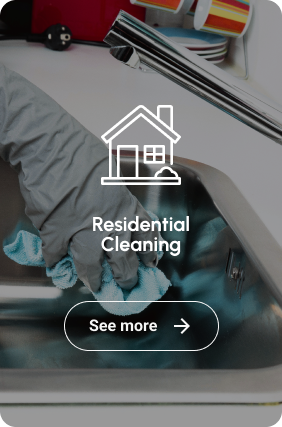
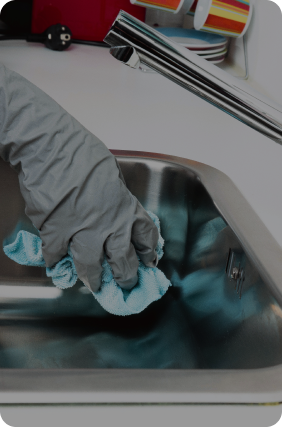
correcoes1

diff --git a/index.html b/index.html
@@ -166,29 +166,197 @@
                 </ul>
               </div>
           </div>
-          <swiper-container class="mySwiper1 reveal" pagination="true" pagination-clickable="true" space-between="10" slides-per-view="auto" loop="true" navigation="true" autoplay-delay="5000" centered-slides="true">
+          <swiper-container class="mySwiper1 reveal" pagination="true" pagination-clickable="true" space-between="0" slides-per-view="auto" loop="true" navigation="true" autoplay-delay="5000" centered-slides="true">
             <swiper-slide class="swiper1">
               <div class="servicescard">
-                <a href="./services/residentialcleaning.html">
-                <img src="./assets/services1.png" alt="" draggable="false"></a>
+                <img src="./assets/services1.png" alt="" draggable="false">
+                <div class="cardinfos">
+                  <svg xmlns="http://www.w3.org/2000/svg" width="80" height="80" viewBox="0 0 80 80" fill="none">
+                    <path d="M78.6663 71.9985H77.333C77.3064 70.2052 76.5664 68.4986 75.2764 67.2519C74.358 66.3203 73.178 65.6903 71.8931 65.442C70.1364 61.8187 65.7748 60.3054 62.1514 62.062C60.6765 62.777 59.4865 63.967 58.7715 65.442C57.4865 65.6886 56.3081 66.3203 55.3882 67.2519C54.0982 68.4986 53.3598 70.2052 53.3315 71.9985H37.3316V41.3325C37.3316 40.5958 36.7349 39.9992 35.9983 39.9992H17.3317C16.5951 39.9992 15.9984 40.5958 15.9984 41.3325V71.9985H10.6651V35.1576L39.9999 11.0598L69.3331 35.1576V58.6654C69.3331 59.4021 69.9297 59.9987 70.6664 59.9987C71.4031 59.9987 71.9997 59.4021 71.9997 58.6654V37.3476L73.2997 38.4159C73.8647 38.8809 74.698 38.8025 75.168 38.2425L79.688 32.856C80.1613 32.291 80.088 31.4493 79.523 30.976C79.5197 30.9727 79.5163 30.971 79.513 30.9677L71.9997 24.7961V2.66661C71.9997 1.19498 70.8047 0.00166663 69.3331 0H58.6665C57.1948 0 56.0015 1.19498 55.9998 2.66661V11.6548L43.2099 1.14831C41.3266 -0.333326 38.6733 -0.333326 36.7899 1.14831L0.486827 30.9694C-0.0815029 31.4377 -0.164836 32.2777 0.303495 32.8476C0.306828 32.851 0.308495 32.8543 0.311828 32.8576L4.8318 38.2442C5.3018 38.8042 6.13513 38.8825 6.70012 38.4175L8.00011 37.3492V72.0002H1.33349C0.596826 72.0002 0.000163236 72.5968 0.000163236 73.3335V78.6667C0.000163236 79.4033 0.596826 80 1.33349 80H78.6663C79.403 80 79.9997 79.4033 79.9997 78.6667V73.3335C79.9997 72.5968 79.403 72.0002 78.6663 72.0002V71.9985ZM58.6665 2.66661H69.3331V22.6062L58.6665 13.8447V2.66661ZM6.02679 35.5176L3.22014 32.1743L38.4816 3.20993C39.3716 2.50828 40.6266 2.50828 41.5166 3.20993L76.778 32.1743L73.9714 35.5176L40.8466 8.30316C40.3549 7.89817 39.6449 7.89817 39.1533 8.30316L6.02679 35.5176ZM57.2615 69.1502C57.8865 68.4769 58.7515 68.0752 59.6698 68.0336C60.2448 68.0419 60.7598 67.6819 60.9498 67.1386C61.7731 64.717 64.4031 63.4203 66.8248 64.2437C68.1864 64.707 69.2564 65.777 69.7197 67.1386C69.9031 67.6852 70.4231 68.0486 70.9997 68.0336C71.9147 68.0852 72.7764 68.4852 73.4081 69.1502C74.1897 69.8935 74.643 70.9185 74.6697 71.9968H56.0032C56.0281 70.9185 56.4832 69.8935 57.2648 69.1502H57.2615ZM18.6667 42.6641H34.6666V71.9968H18.6667V42.6641ZM77.333 77.33H2.66681V74.6634H77.333V77.33ZM43.9999 39.9975C43.2632 39.9975 42.6666 40.5942 42.6666 41.3308V57.3305C42.6666 58.0671 43.2632 58.6638 43.9999 58.6638H62.6664C63.4031 58.6638 63.9998 58.0671 63.9998 57.3305V41.3308C63.9998 40.5942 63.4031 39.9975 62.6664 39.9975H43.9999ZM61.3331 47.9973H54.6665V42.6641H61.3331V47.9973ZM51.9998 42.6641V47.9973H45.3332V42.6641H51.9998ZM45.3332 50.6639H51.9998V55.9972H45.3332V50.6639ZM54.6665 55.9972V50.6639H61.3331V55.9972H54.6665Z" fill="white"/>
+                  </svg>         
+                  <h6>Residential <br>Cleaning</h6>
+                    <button class="servicesbtn"><a href="./services/residentialcleaning.html">
+                      See more &#8594;
+                    </a></button>
+                </div>
               </div>
             </swiper-slide>
             <swiper-slide class="swiper1">
               <div class="servicescard">
-                <a href="./services/commercialcleaning.html">
-                <img src="./assets/services2.png" alt="" draggable="false"></a>
+                <img src="./assets/services2.png" alt="" draggable="false">
+                <div class="cardinfos">
+                  <svg xmlns="http://www.w3.org/2000/svg" width="80" height="80" viewBox="0 0 80 80" fill="none">
+                  <path d="M74.6665 77.3031H72.4446V6.74219C72.4446 5.99688 71.8482 5.39375 71.1112 5.39375H46.2222C45.4852 5.39375 44.8888 5.99688 44.8888 6.74219V12.5844H42.2219V6.74219C42.2219 5.99688 41.6255 5.39375 40.8885 5.39375H35.1112V1.34844C35.1112 0.603125 34.5148 0 33.7778 0C33.0407 0 32.4443 0.603125 32.4443 1.34844V5.39375H26.6671C25.93 5.39375 25.3336 5.99688 25.3336 6.74219V12.5844H21.3333C20.5962 12.5844 19.9998 13.1875 19.9998 13.9328V25.1688H8.88879C8.15177 25.1688 7.55535 25.7719 7.55535 26.5172V77.3031H5.33345C4.59642 77.3031 4 77.9062 4 78.6516C4 79.3969 4.59642 80 5.33345 80H74.6665C75.4036 80 76 79.3969 76 78.6516C76 77.9062 75.4036 77.3031 74.6665 77.3031ZM28.0005 8.09062H39.5565V12.5844H28.0005V8.09062ZM23.5567 77.3047H22.6683V75.0578C22.6683 74.3125 22.0718 73.7094 21.3348 73.7094C20.5978 73.7094 20.0014 74.3125 20.0014 75.0578V77.3047H19.1129V72.8109H23.5567V77.3047ZM32.4459 42.6984V77.3047H26.2236V71.4625C26.2236 70.7172 25.6272 70.1141 24.8902 70.1141H17.7795C17.0424 70.1141 16.446 70.7172 16.446 71.4625V77.3047H10.2238V27.8656H32.4459V42.6969V42.6984ZM33.7793 25.1703H22.6683V15.2828H44.8903V41.35H35.1128V36.8563H39.1131C39.8501 36.8563 40.4465 36.2531 40.4465 35.5078C40.4465 34.7625 39.8501 34.1594 39.1131 34.1594H35.1128V29.6656H39.1131C39.8501 29.6656 40.4465 29.0625 40.4465 28.3172C40.4465 27.5719 39.8501 26.9688 39.1131 26.9688H35.1128V26.5187C35.1128 25.7734 34.5163 25.1703 33.7793 25.1703ZM57.3348 77.3047H35.1128V44.0469H57.3348V77.3047ZM69.7793 77.3047H60.0017V40.9C60.0017 40.1547 59.4053 39.5516 58.6683 39.5516C57.9312 39.5516 57.3348 40.1547 57.3348 40.9V41.35H54.6679V40.9C54.6679 40.1547 54.0715 39.5516 53.3345 39.5516C52.5975 39.5516 52.001 40.1547 52.001 40.9V41.35H47.5572V8.09062H69.7793V77.3047Z" fill="white"/>
+                  <path d="M41 75C41.5527 75 42 74.394 42 73.6451V48.3549C42 47.606 41.5527 47 41 47C40.4473 47 40 47.606 40 48.3549V73.6451C40 74.394 40.4473 75 41 75Z" fill="white"/>
+                  <path d="M46.5 75C47.3291 75 48 74.394 48 73.6451V48.3549C48 47.606 47.3291 47 46.5 47C45.6709 47 45 47.606 45 48.3549V73.6451C45 74.394 45.6709 75 46.5 75Z" fill="white"/>
+                  <path d="M51.5 75C52.3291 75 53 74.394 53 73.6451V48.3549C53 47.606 52.3291 47 51.5 47C50.6709 47 50 47.606 50 48.3549V73.6451C50 74.394 50.6709 75 51.5 75Z" fill="white"/>
+                  <path d="M53.5 17C54.3291 17 55 16.4633 55 15.8001V14.1999C55 13.5367 54.3291 13 53.5 13C52.6709 13 52 13.5367 52 14.1999V15.8001C52 16.4633 52.6709 17 53.5 17Z" fill="white"/>
+                  <path d="M59 17C59.5527 17 60 16.4633 60 15.8001V14.1999C60 13.5367 59.5527 13 59 13C58.4473 13 58 13.5367 58 14.1999V15.8001C58 16.4633 58.4473 17 59 17Z" fill="white"/>
+                  <path d="M64.5 17C65.3291 17 66 16.4633 66 15.8001V14.1999C66 13.5367 65.3291 13 64.5 13C63.6709 13 63 13.5367 63 14.1999V15.8001C63 16.4633 63.6709 17 64.5 17Z" fill="white"/>
+                  <path d="M53.5 26C54.3291 26 55 25.4633 55 24.8001V23.1999C55 22.5367 54.3291 22 53.5 22C52.6709 22 52 22.5367 52 23.1999V24.8001C52 25.4633 52.6709 26 53.5 26Z" fill="white"/>
+                  <path d="M59 26C59.5527 26 60 25.4633 60 24.8001V23.1999C60 22.5367 59.5527 22 59 22C58.4473 22 58 22.5367 58 23.1999V24.8001C58 25.4633 58.4473 26 59 26Z" fill="white"/>
+                  <path d="M64.5 26C65.3291 26 66 25.4633 66 24.8001V23.1999C66 22.5367 65.3291 22 64.5 22C63.6709 22 63 22.5367 63 23.1999V24.8001C63 25.4633 63.6709 26 64.5 26Z" fill="white"/>
+                  <path d="M53.5 35C54.3291 35 55 34.4633 55 33.8001V32.1999C55 31.5367 54.3291 31 53.5 31C52.6709 31 52 31.5367 52 32.1999V33.8001C52 34.4633 52.6709 35 53.5 35Z" fill="white"/>
+                  <path d="M59 35C59.5527 35 60 34.4633 60 33.8001V32.1999C60 31.5367 59.5527 31 59 31C58.4473 31 58 31.5367 58 32.1999V33.8001C58 34.4633 58.4473 35 59 35Z" fill="white"/>
+                  <path d="M64.5 35C65.3291 35 66 34.4633 66 33.8001V32.1999C66 31.5367 65.3291 31 64.5 31C63.6709 31 63 31.5367 63 32.1999V33.8001C63 34.4633 63.6709 35 64.5 35Z" fill="white"/>
+                  <path d="M15.5 39C16.3291 39 17 38.3292 17 37.5002V35.4998C17 34.6708 16.3291 34 15.5 34C14.6709 34 14 34.6708 14 35.4998V37.5002C14 38.3292 14.6709 39 15.5 39Z" fill="white"/>
+                  <path d="M21 39C21.5527 39 22 38.3292 22 37.5002V35.4998C22 34.6708 21.5527 34 21 34C20.4473 34 20 34.6708 20 35.4998V37.5002C20 38.3292 20.4473 39 21 39Z" fill="white"/>
+                  <path d="M26.5 39C27.3291 39 28 38.3292 28 37.5002V35.4998C28 34.6708 27.3291 34 26.5 34C25.6709 34 25 34.6708 25 35.4998V37.5002C25 38.3292 25.6709 39 26.5 39Z" fill="white"/>
+                  <path d="M15.5 48C16.3291 48 17 47.3292 17 46.5002V44.4998C17 43.6708 16.3291 43 15.5 43C14.6709 43 14 43.6708 14 44.4998V46.5002C14 47.3292 14.6709 48 15.5 48Z" fill="white"/>
+                  <path d="M21 48C21.5527 48 22 47.3292 22 46.5002V44.4998C22 43.6708 21.5527 43 21 43C20.4473 43 20 43.6708 20 44.4998V46.5002C20 47.3292 20.4473 48 21 48Z" fill="white"/>
+                  <path d="M26.5 48C27.3291 48 28 47.3292 28 46.5002V44.4998C28 43.6708 27.3291 43 26.5 43C25.6709 43 25 43.6708 25 44.4998V46.5002C25 47.3292 25.6709 48 26.5 48Z" fill="white"/>
+                  <path d="M15.5 57C16.3291 57 17 56.3292 17 55.5002V53.4998C17 52.6708 16.3291 52 15.5 52C14.6709 52 14 52.6708 14 53.4998V55.5002C14 56.3292 14.6709 57 15.5 57Z" fill="white"/>
+                  <path d="M21 57C21.5527 57 22 56.3292 22 55.5002V53.4998C22 52.6708 21.5527 52 21 52C20.4473 52 20 52.6708 20 53.4998V55.5002C20 56.3292 20.4473 57 21 57Z" fill="white"/>
+                  <path d="M26.5 57C27.3291 57 28 56.3292 28 55.5002V53.4998C28 52.6708 27.3291 52 26.5 52C25.6709 52 25 52.6708 25 53.4998V55.5002C25 56.3292 25.6709 57 26.5 57Z" fill="white"/>
+                  <path d="M15.5 66C16.3291 66 17 65.3292 17 64.5002V62.4998C17 61.6708 16.3291 61 15.5 61C14.6709 61 14 61.6708 14 62.4998V64.5002C14 65.3292 14.6709 66 15.5 66Z" fill="white"/>
+                  <path d="M21 66C21.5527 66 22 65.3292 22 64.5002V62.4998C22 61.6708 21.5527 61 21 61C20.4473 61 20 61.6708 20 62.4998V64.5002C20 65.3292 20.4473 66 21 66Z" fill="white"/>
+                  <path d="M26.5 66C27.3291 66 28 65.3292 28 64.5002V62.4998C28 61.6708 27.3291 61 26.5 61C25.6709 61 25 61.6708 25 62.4998V64.5002C25 65.3292 25.6709 66 26.5 66Z" fill="white"/>
+                  <path d="M64.5 44C65.3291 44 66 43.4633 66 42.8001V41.1999C66 40.5367 65.3291 40 64.5 40C63.6709 40 63 40.5367 63 41.1999V42.8001C63 43.4633 63.6709 44 64.5 44Z" fill="white"/>
+                  <path d="M64.5 53C65.3291 53 66 52.3292 66 51.5002V49.4998C66 48.6708 65.3291 48 64.5 48C63.6709 48 63 48.6708 63 49.4998V51.5002C63 52.3292 63.6709 53 64.5 53Z" fill="white"/>
+                  <path d="M64.5 62C65.3291 62 66 61.3292 66 60.5002V58.4998C66 57.6708 65.3291 57 64.5 57C63.6709 57 63 57.6708 63 58.4998V60.5002C63 61.3292 63.6709 62 64.5 62Z" fill="white"/>
+                  <path d="M64.5 71C65.3291 71 66 70.3292 66 69.5002V67.4998C66 66.6708 65.3291 66 64.5 66C63.6709 66 63 66.6708 63 67.4998V69.5002C63 70.3292 63.6709 71 64.5 71Z" fill="white"/>
+                  <path d="M40 21C40 20.4473 39.4185 20 38.6999 20H28.3002C27.5815 20 27 20.4473 27 21C27 21.5527 27.5815 22 28.3002 22H38.6999C39.4185 22 40 21.5527 40 21Z" fill="white"/>
+                </svg>
+                  <h6>Commercial Cleaning/<br>Office Cleaning:</h6>
+                    <button class="servicesbtn"><a href="./services/commercialcleaning.html">
+                      See more &#8594;
+                    </a></button>
+                </div>
               </div>
             </swiper-slide>
             <swiper-slide class="swiper1">
               <div class="servicescard">
-                <a href="./services/moveinoutairbnbcleaning.html">
-                <img src="./assets/services3.png" alt="" draggable="false"></a>
+                <img src="./assets/services3.png" alt="" draggable="false">
+                <div class="cardinfos">
+                  <svg xmlns="http://www.w3.org/2000/svg" width="82" height="80" viewBox="0 0 82 80" fill="none">
+                    <g clip-path="url(#clip0_1040_260)">
+                      <path d="M15.5004 36.0004C7.35071 36.0098 0.747124 42.5702 0.736816 50.6667C0.736816 58.3817 13.8624 76.0465 14.4267 76.8C14.6801 77.1379 15.0804 77.3385 15.5047 77.3385C15.929 77.3385 16.3293 77.1388 16.5827 76.8C17.1384 76.0465 30.264 58.3817 30.264 50.6667C30.2537 42.5702 23.6501 36.0098 15.5004 35.9996V36.0004ZM15.5004 73.734C11.3397 67.939 3.42189 55.8524 3.42189 50.6675C3.42189 44.0405 8.82982 38.6679 15.5004 38.6679C22.171 38.6679 27.5789 44.0405 27.5789 50.6675C27.5789 55.8507 19.6603 67.9381 15.5004 73.734Z" fill="#F7F7F7"/>
+                      <path d="M15.5004 42.6667C11.0536 42.6667 7.44775 46.249 7.44775 50.6667C7.44775 55.0844 11.0536 58.6667 15.5004 58.6667C19.9472 58.6667 23.553 55.0844 23.553 50.6667C23.5487 46.2498 19.9463 42.671 15.5004 42.6667ZM15.5004 56C12.5353 56 10.132 53.6124 10.132 50.6667C10.132 47.721 12.5353 45.3334 15.5004 45.3334C18.4655 45.3334 20.8688 47.721 20.8688 50.6667C20.8688 53.6124 18.4655 56 15.5004 56Z" fill="#F7F7F7"/>
+                      <path d="M66.4994 0C58.3497 0.01024 51.7461 6.57067 51.7358 14.6671C51.7358 22.3821 64.8614 40.0469 65.4257 40.8004C65.6791 41.1383 66.0794 41.3389 66.5037 41.3389C66.928 41.3389 67.3283 41.1392 67.5817 40.8004C68.1374 40.0469 81.263 22.3821 81.263 14.6671C81.2527 6.57067 74.6491 0.01024 66.4994 0ZM66.4994 37.7335C62.3387 31.9403 54.4209 19.8537 54.4209 14.6671C54.4209 8.04011 59.8288 2.66752 66.4994 2.66752C73.17 2.66752 78.5779 8.04011 78.5779 14.6671C78.5779 19.8502 70.6593 31.9377 66.4994 37.7335Z" fill="#F7F7F7"/>
+                      <path d="M66.4994 6.66626C62.0526 6.66626 58.4468 10.2486 58.4468 14.6663C58.4468 19.084 62.0526 22.6663 66.4994 22.6663C70.9462 22.6663 74.552 19.084 74.552 14.6663C74.5477 10.2494 70.9453 6.67053 66.4994 6.66626ZM66.4994 19.9996C63.5343 19.9996 61.131 17.612 61.131 14.6663C61.131 11.7206 63.5343 9.33293 66.4994 9.33293C69.4645 9.33293 71.8678 11.7206 71.8678 14.6663C71.8678 17.612 69.4645 19.9996 66.4994 19.9996Z" fill="#F7F7F7"/>
+                      <path d="M49.4468 43.7333C46.6432 46.0083 45.0198 49.4165 45.0267 53.0116V62.6662C45.0164 70.7626 38.4128 77.3231 30.2631 77.3333H18.1846V80H30.2631C39.8945 79.9897 47.6997 72.2346 47.71 62.6671V53.0125C47.7117 50.2178 48.9744 47.5707 51.151 45.8001C53.3275 44.0277 56.1878 43.3194 58.9476 43.8673L66.2315 45.3077L66.7572 42.6948L59.4699 41.2467C55.9224 40.5384 52.2427 41.4515 49.446 43.735L49.4468 43.7333Z" fill="#F7F7F7"/>
+                    </g>
+                    <defs>
+                      <clipPath id="clip0_1040_260">
+                        <rect width="80.5263" height="80" fill="white" transform="translate(0.736816)"/>
+                      </clipPath>
+                    </defs>
+                  </svg>
+                  <h6>Move-in/Move-out/<br>Airbnbs Cleaning:</h6>
+                    <button class="servicesbtn"><a href="./services/moveinoutairbnbcleaning.html">
+                      See more &#8594;
+                    </a></button>
+                </div>
               </div>
             </swiper-slide>
             <swiper-slide class="swiper1">
               <div class="servicescard">
-                <a href="./services/postconstructioncleaning.html">
-                <img src="./assets/services4.png" alt="" draggable="false"></a>
+                <img src="./assets/services4.png" alt="" draggable="false">
+                <div class="cardinfos">
+                  <svg xmlns="http://www.w3.org/2000/svg" width="80" height="80" viewBox="0 0 80 80" fill="none">
+                    <path d="M79.8516 37.7141C79.8187 37.6344 79.7844 37.5609 79.7375 37.4844C79.6578 37.3516 79.5547 37.2375 79.4375 37.1312C79.3906 37.0875 79.3703 37.0281 79.3172 36.9906C79.2937 36.9734 79.2609 36.9734 79.2375 36.9578C79.2078 36.9375 79.1906 36.9078 79.1578 36.8875L71.675 32.6109C72.675 31.6484 73.3312 30.3438 73.3312 28.8703C73.3312 26.8797 72.2219 25.0875 70.4375 24.1906L58.2234 18.0844L59.6406 14.5406L60.6 14.0609C61.0969 14.3609 61.6703 14.5234 62.2672 14.5234C62.5703 14.5234 62.8797 14.4828 63.1875 14.3969L76.0344 10.7234C78.3672 10.0531 79.9969 7.89375 79.9969 5.46719C79.9969 2.45312 77.5437 0 74.5297 0H72.9969C71.7562 0 70.5437 0.426562 69.5797 1.19687L60.2328 8.67344C59.4594 9.29375 59.0797 10.1859 59.0453 11.1109L57.5828 11.8406C57.2156 12.0234 56.9297 12.3344 56.7797 12.7141L55.2297 16.5875L50.5734 14.2609C47.0172 12.4812 42.4562 13.4437 39.9203 16.4875L25.7203 33.5281L1.23906 40.0562C1.14531 40.0828 1.075 40.1391 0.989062 40.1797C0.939062 40.2031 0.879687 40.1922 0.829687 40.2234C0.8 40.2406 0.785937 40.2766 0.759375 40.2938C0.55 40.4344 0.365625 40.6031 0.239062 40.8172C0.225 40.8406 0.21875 40.8641 0.20625 40.8875C0.096875 41.0938 0.0390625 41.325 0.0265625 41.5641C0.0265625 41.6 0 41.6313 0 41.6672V65C0 65.5969 0.320312 66.15 0.840625 66.4469L24.1734 79.7797C24.4297 79.9266 24.7172 80 25 80C25.1625 80 25.3328 79.9766 25.4969 79.9234L78.8297 63.2562C79.5266 63.0391 80 62.3969 80 61.6656V38.3328C80 38.2766 79.9672 38.2297 79.9641 38.1734C79.9469 38.0141 79.9141 37.8641 79.8547 37.7141H79.8516ZM71.6687 3.8C72.0422 3.5 72.5156 3.33281 72.9984 3.33281H74.5344C75.7109 3.33281 76.6672 4.28906 76.6672 5.46562C76.6672 6.4125 76.0297 7.25625 75.1203 7.51562L63.1562 10.9359C63.1562 10.9359 63.1531 10.9266 63.1531 10.9187C63.1172 10.8422 63.05 10.7953 63.0031 10.7281L71.6656 3.79844L71.6687 3.8ZM42.4859 18.6203C43.5234 17.3797 45.0422 16.6672 46.6594 16.6672C47.4969 16.6672 48.3359 16.8672 49.0969 17.2375L53.9938 19.6844L53.6578 20.525L37.475 30.2391C36.6875 30.7125 36.4313 31.7359 36.9047 32.525C37.2188 33.0484 37.7672 33.3344 38.3344 33.3344C38.6281 33.3344 38.925 33.2578 39.1906 33.0938L55.8578 23.0938C56.1719 22.9062 56.4109 22.6234 56.5484 22.2844L56.9891 21.1844L68.9594 27.1672C69.6062 27.4937 70.0094 28.1438 70.0094 28.8797C70.0094 29.7531 69.4156 30.5094 68.5687 30.7234L67.7594 30.9266C67.7594 30.9266 67.75 30.9297 67.7469 30.9297L22.8906 42.1422L42.4906 18.6188L42.4859 18.6203ZM23.3328 75.4609L3.33125 64.0328V44.5391L23.3313 55.9656V75.4594L23.3328 75.4609ZM25.1969 53.1937L6.01719 42.2344L22.0312 37.9641L17.0547 43.9344C16.5953 44.4906 16.5406 45.2781 16.925 45.8875C17.2313 46.3812 17.7719 46.6672 18.3344 46.6672C18.4672 46.6672 18.6047 46.65 18.7406 46.6141L24.3406 45.2141L29.1438 48.0969C29.4141 48.2563 29.7109 48.3344 30 48.3344C30.5625 48.3344 31.1172 48.0484 31.4297 47.5281C31.9031 46.7375 31.65 45.7141 30.8594 45.2406L28.9094 44.0703L35.3156 42.4703L39.1422 44.7641C39.4125 44.9234 39.7094 45.0016 39.9984 45.0016C40.5625 45.0016 41.1156 44.7156 41.4281 44.1953C41.9016 43.4047 41.6484 42.3812 40.8578 41.9078L39.8875 41.3281L46.2969 39.725L49.1375 41.4313C49.4109 41.5906 49.7078 41.6687 49.9969 41.6687C50.5609 41.6687 51.1141 41.3828 51.4266 40.8625C51.8969 40.075 51.6469 39.0594 50.8672 38.5828L57.2766 36.9797L59.1391 38.0969C59.4094 38.2594 59.7062 38.3375 59.9953 38.3375C60.5594 38.3375 61.1125 38.05 61.425 37.5312C61.7281 37.025 61.7047 36.4313 61.4578 35.9375L67.9344 34.3172L74.1812 37.8875L25.1906 53.1969L25.1969 53.1937ZM76.6672 60.4406L26.6672 76.0672V56.2234L76.6672 40.6V60.4406Z" fill="#F7F7F7"/>
+                  </svg>
+                  <h6>Post <br>Construction</h6>
+                    <button class="servicesbtn"><a href="./services/postconstructioncleaning.html">
+                      See more &#8594;
+                    </a></button>
+                </div>
+              </div>
+            </swiper-slide>
+            <swiper-slide class="swiper1">
+              <div class="servicescard">
+                <img src="./assets/services1.png" alt="" draggable="false">
+                <div class="cardinfos">
+                  <svg xmlns="http://www.w3.org/2000/svg" width="80" height="80" viewBox="0 0 80 80" fill="none">
+                    <path d="M78.6663 71.9985H77.333C77.3064 70.2052 76.5664 68.4986 75.2764 67.2519C74.358 66.3203 73.178 65.6903 71.8931 65.442C70.1364 61.8187 65.7748 60.3054 62.1514 62.062C60.6765 62.777 59.4865 63.967 58.7715 65.442C57.4865 65.6886 56.3081 66.3203 55.3882 67.2519C54.0982 68.4986 53.3598 70.2052 53.3315 71.9985H37.3316V41.3325C37.3316 40.5958 36.7349 39.9992 35.9983 39.9992H17.3317C16.5951 39.9992 15.9984 40.5958 15.9984 41.3325V71.9985H10.6651V35.1576L39.9999 11.0598L69.3331 35.1576V58.6654C69.3331 59.4021 69.9297 59.9987 70.6664 59.9987C71.4031 59.9987 71.9997 59.4021 71.9997 58.6654V37.3476L73.2997 38.4159C73.8647 38.8809 74.698 38.8025 75.168 38.2425L79.688 32.856C80.1613 32.291 80.088 31.4493 79.523 30.976C79.5197 30.9727 79.5163 30.971 79.513 30.9677L71.9997 24.7961V2.66661C71.9997 1.19498 70.8047 0.00166663 69.3331 0H58.6665C57.1948 0 56.0015 1.19498 55.9998 2.66661V11.6548L43.2099 1.14831C41.3266 -0.333326 38.6733 -0.333326 36.7899 1.14831L0.486827 30.9694C-0.0815029 31.4377 -0.164836 32.2777 0.303495 32.8476C0.306828 32.851 0.308495 32.8543 0.311828 32.8576L4.8318 38.2442C5.3018 38.8042 6.13513 38.8825 6.70012 38.4175L8.00011 37.3492V72.0002H1.33349C0.596826 72.0002 0.000163236 72.5968 0.000163236 73.3335V78.6667C0.000163236 79.4033 0.596826 80 1.33349 80H78.6663C79.403 80 79.9997 79.4033 79.9997 78.6667V73.3335C79.9997 72.5968 79.403 72.0002 78.6663 72.0002V71.9985ZM58.6665 2.66661H69.3331V22.6062L58.6665 13.8447V2.66661ZM6.02679 35.5176L3.22014 32.1743L38.4816 3.20993C39.3716 2.50828 40.6266 2.50828 41.5166 3.20993L76.778 32.1743L73.9714 35.5176L40.8466 8.30316C40.3549 7.89817 39.6449 7.89817 39.1533 8.30316L6.02679 35.5176ZM57.2615 69.1502C57.8865 68.4769 58.7515 68.0752 59.6698 68.0336C60.2448 68.0419 60.7598 67.6819 60.9498 67.1386C61.7731 64.717 64.4031 63.4203 66.8248 64.2437C68.1864 64.707 69.2564 65.777 69.7197 67.1386C69.9031 67.6852 70.4231 68.0486 70.9997 68.0336C71.9147 68.0852 72.7764 68.4852 73.4081 69.1502C74.1897 69.8935 74.643 70.9185 74.6697 71.9968H56.0032C56.0281 70.9185 56.4832 69.8935 57.2648 69.1502H57.2615ZM18.6667 42.6641H34.6666V71.9968H18.6667V42.6641ZM77.333 77.33H2.66681V74.6634H77.333V77.33ZM43.9999 39.9975C43.2632 39.9975 42.6666 40.5942 42.6666 41.3308V57.3305C42.6666 58.0671 43.2632 58.6638 43.9999 58.6638H62.6664C63.4031 58.6638 63.9998 58.0671 63.9998 57.3305V41.3308C63.9998 40.5942 63.4031 39.9975 62.6664 39.9975H43.9999ZM61.3331 47.9973H54.6665V42.6641H61.3331V47.9973ZM51.9998 42.6641V47.9973H45.3332V42.6641H51.9998ZM45.3332 50.6639H51.9998V55.9972H45.3332V50.6639ZM54.6665 55.9972V50.6639H61.3331V55.9972H54.6665Z" fill="white"/>
+                  </svg>         
+                  <h6>Residential <br>Cleaning</h6>
+                    <button class="servicesbtn"><a href="./services/residentialcleaning.html">
+                      See more &#8594;
+                    </a></button>
+                </div>
+              </div>
+            </swiper-slide>
+            <swiper-slide class="swiper1">
+              <div class="servicescard">
+                <img src="./assets/services2.png" alt="" draggable="false">
+                <div class="cardinfos">
+                  <svg xmlns="http://www.w3.org/2000/svg" width="80" height="80" viewBox="0 0 80 80" fill="none">
+                  <path d="M74.6665 77.3031H72.4446V6.74219C72.4446 5.99688 71.8482 5.39375 71.1112 5.39375H46.2222C45.4852 5.39375 44.8888 5.99688 44.8888 6.74219V12.5844H42.2219V6.74219C42.2219 5.99688 41.6255 5.39375 40.8885 5.39375H35.1112V1.34844C35.1112 0.603125 34.5148 0 33.7778 0C33.0407 0 32.4443 0.603125 32.4443 1.34844V5.39375H26.6671C25.93 5.39375 25.3336 5.99688 25.3336 6.74219V12.5844H21.3333C20.5962 12.5844 19.9998 13.1875 19.9998 13.9328V25.1688H8.88879C8.15177 25.1688 7.55535 25.7719 7.55535 26.5172V77.3031H5.33345C4.59642 77.3031 4 77.9062 4 78.6516C4 79.3969 4.59642 80 5.33345 80H74.6665C75.4036 80 76 79.3969 76 78.6516C76 77.9062 75.4036 77.3031 74.6665 77.3031ZM28.0005 8.09062H39.5565V12.5844H28.0005V8.09062ZM23.5567 77.3047H22.6683V75.0578C22.6683 74.3125 22.0718 73.7094 21.3348 73.7094C20.5978 73.7094 20.0014 74.3125 20.0014 75.0578V77.3047H19.1129V72.8109H23.5567V77.3047ZM32.4459 42.6984V77.3047H26.2236V71.4625C26.2236 70.7172 25.6272 70.1141 24.8902 70.1141H17.7795C17.0424 70.1141 16.446 70.7172 16.446 71.4625V77.3047H10.2238V27.8656H32.4459V42.6969V42.6984ZM33.7793 25.1703H22.6683V15.2828H44.8903V41.35H35.1128V36.8563H39.1131C39.8501 36.8563 40.4465 36.2531 40.4465 35.5078C40.4465 34.7625 39.8501 34.1594 39.1131 34.1594H35.1128V29.6656H39.1131C39.8501 29.6656 40.4465 29.0625 40.4465 28.3172C40.4465 27.5719 39.8501 26.9688 39.1131 26.9688H35.1128V26.5187C35.1128 25.7734 34.5163 25.1703 33.7793 25.1703ZM57.3348 77.3047H35.1128V44.0469H57.3348V77.3047ZM69.7793 77.3047H60.0017V40.9C60.0017 40.1547 59.4053 39.5516 58.6683 39.5516C57.9312 39.5516 57.3348 40.1547 57.3348 40.9V41.35H54.6679V40.9C54.6679 40.1547 54.0715 39.5516 53.3345 39.5516C52.5975 39.5516 52.001 40.1547 52.001 40.9V41.35H47.5572V8.09062H69.7793V77.3047Z" fill="white"/>
+                  <path d="M41 75C41.5527 75 42 74.394 42 73.6451V48.3549C42 47.606 41.5527 47 41 47C40.4473 47 40 47.606 40 48.3549V73.6451C40 74.394 40.4473 75 41 75Z" fill="white"/>
+                  <path d="M46.5 75C47.3291 75 48 74.394 48 73.6451V48.3549C48 47.606 47.3291 47 46.5 47C45.6709 47 45 47.606 45 48.3549V73.6451C45 74.394 45.6709 75 46.5 75Z" fill="white"/>
+                  <path d="M51.5 75C52.3291 75 53 74.394 53 73.6451V48.3549C53 47.606 52.3291 47 51.5 47C50.6709 47 50 47.606 50 48.3549V73.6451C50 74.394 50.6709 75 51.5 75Z" fill="white"/>
+                  <path d="M53.5 17C54.3291 17 55 16.4633 55 15.8001V14.1999C55 13.5367 54.3291 13 53.5 13C52.6709 13 52 13.5367 52 14.1999V15.8001C52 16.4633 52.6709 17 53.5 17Z" fill="white"/>
+                  <path d="M59 17C59.5527 17 60 16.4633 60 15.8001V14.1999C60 13.5367 59.5527 13 59 13C58.4473 13 58 13.5367 58 14.1999V15.8001C58 16.4633 58.4473 17 59 17Z" fill="white"/>
+                  <path d="M64.5 17C65.3291 17 66 16.4633 66 15.8001V14.1999C66 13.5367 65.3291 13 64.5 13C63.6709 13 63 13.5367 63 14.1999V15.8001C63 16.4633 63.6709 17 64.5 17Z" fill="white"/>
+                  <path d="M53.5 26C54.3291 26 55 25.4633 55 24.8001V23.1999C55 22.5367 54.3291 22 53.5 22C52.6709 22 52 22.5367 52 23.1999V24.8001C52 25.4633 52.6709 26 53.5 26Z" fill="white"/>
+                  <path d="M59 26C59.5527 26 60 25.4633 60 24.8001V23.1999C60 22.5367 59.5527 22 59 22C58.4473 22 58 22.5367 58 23.1999V24.8001C58 25.4633 58.4473 26 59 26Z" fill="white"/>
+                  <path d="M64.5 26C65.3291 26 66 25.4633 66 24.8001V23.1999C66 22.5367 65.3291 22 64.5 22C63.6709 22 63 22.5367 63 23.1999V24.8001C63 25.4633 63.6709 26 64.5 26Z" fill="white"/>
+                  <path d="M53.5 35C54.3291 35 55 34.4633 55 33.8001V32.1999C55 31.5367 54.3291 31 53.5 31C52.6709 31 52 31.5367 52 32.1999V33.8001C52 34.4633 52.6709 35 53.5 35Z" fill="white"/>
+                  <path d="M59 35C59.5527 35 60 34.4633 60 33.8001V32.1999C60 31.5367 59.5527 31 59 31C58.4473 31 58 31.5367 58 32.1999V33.8001C58 34.4633 58.4473 35 59 35Z" fill="white"/>
+                  <path d="M64.5 35C65.3291 35 66 34.4633 66 33.8001V32.1999C66 31.5367 65.3291 31 64.5 31C63.6709 31 63 31.5367 63 32.1999V33.8001C63 34.4633 63.6709 35 64.5 35Z" fill="white"/>
+                  <path d="M15.5 39C16.3291 39 17 38.3292 17 37.5002V35.4998C17 34.6708 16.3291 34 15.5 34C14.6709 34 14 34.6708 14 35.4998V37.5002C14 38.3292 14.6709 39 15.5 39Z" fill="white"/>
+                  <path d="M21 39C21.5527 39 22 38.3292 22 37.5002V35.4998C22 34.6708 21.5527 34 21 34C20.4473 34 20 34.6708 20 35.4998V37.5002C20 38.3292 20.4473 39 21 39Z" fill="white"/>
+                  <path d="M26.5 39C27.3291 39 28 38.3292 28 37.5002V35.4998C28 34.6708 27.3291 34 26.5 34C25.6709 34 25 34.6708 25 35.4998V37.5002C25 38.3292 25.6709 39 26.5 39Z" fill="white"/>
+                  <path d="M15.5 48C16.3291 48 17 47.3292 17 46.5002V44.4998C17 43.6708 16.3291 43 15.5 43C14.6709 43 14 43.6708 14 44.4998V46.5002C14 47.3292 14.6709 48 15.5 48Z" fill="white"/>
+                  <path d="M21 48C21.5527 48 22 47.3292 22 46.5002V44.4998C22 43.6708 21.5527 43 21 43C20.4473 43 20 43.6708 20 44.4998V46.5002C20 47.3292 20.4473 48 21 48Z" fill="white"/>
+                  <path d="M26.5 48C27.3291 48 28 47.3292 28 46.5002V44.4998C28 43.6708 27.3291 43 26.5 43C25.6709 43 25 43.6708 25 44.4998V46.5002C25 47.3292 25.6709 48 26.5 48Z" fill="white"/>
+                  <path d="M15.5 57C16.3291 57 17 56.3292 17 55.5002V53.4998C17 52.6708 16.3291 52 15.5 52C14.6709 52 14 52.6708 14 53.4998V55.5002C14 56.3292 14.6709 57 15.5 57Z" fill="white"/>
+                  <path d="M21 57C21.5527 57 22 56.3292 22 55.5002V53.4998C22 52.6708 21.5527 52 21 52C20.4473 52 20 52.6708 20 53.4998V55.5002C20 56.3292 20.4473 57 21 57Z" fill="white"/>
+                  <path d="M26.5 57C27.3291 57 28 56.3292 28 55.5002V53.4998C28 52.6708 27.3291 52 26.5 52C25.6709 52 25 52.6708 25 53.4998V55.5002C25 56.3292 25.6709 57 26.5 57Z" fill="white"/>
+                  <path d="M15.5 66C16.3291 66 17 65.3292 17 64.5002V62.4998C17 61.6708 16.3291 61 15.5 61C14.6709 61 14 61.6708 14 62.4998V64.5002C14 65.3292 14.6709 66 15.5 66Z" fill="white"/>
+                  <path d="M21 66C21.5527 66 22 65.3292 22 64.5002V62.4998C22 61.6708 21.5527 61 21 61C20.4473 61 20 61.6708 20 62.4998V64.5002C20 65.3292 20.4473 66 21 66Z" fill="white"/>
+                  <path d="M26.5 66C27.3291 66 28 65.3292 28 64.5002V62.4998C28 61.6708 27.3291 61 26.5 61C25.6709 61 25 61.6708 25 62.4998V64.5002C25 65.3292 25.6709 66 26.5 66Z" fill="white"/>
+                  <path d="M64.5 44C65.3291 44 66 43.4633 66 42.8001V41.1999C66 40.5367 65.3291 40 64.5 40C63.6709 40 63 40.5367 63 41.1999V42.8001C63 43.4633 63.6709 44 64.5 44Z" fill="white"/>
+                  <path d="M64.5 53C65.3291 53 66 52.3292 66 51.5002V49.4998C66 48.6708 65.3291 48 64.5 48C63.6709 48 63 48.6708 63 49.4998V51.5002C63 52.3292 63.6709 53 64.5 53Z" fill="white"/>
+                  <path d="M64.5 62C65.3291 62 66 61.3292 66 60.5002V58.4998C66 57.6708 65.3291 57 64.5 57C63.6709 57 63 57.6708 63 58.4998V60.5002C63 61.3292 63.6709 62 64.5 62Z" fill="white"/>
+                  <path d="M64.5 71C65.3291 71 66 70.3292 66 69.5002V67.4998C66 66.6708 65.3291 66 64.5 66C63.6709 66 63 66.6708 63 67.4998V69.5002C63 70.3292 63.6709 71 64.5 71Z" fill="white"/>
+                  <path d="M40 21C40 20.4473 39.4185 20 38.6999 20H28.3002C27.5815 20 27 20.4473 27 21C27 21.5527 27.5815 22 28.3002 22H38.6999C39.4185 22 40 21.5527 40 21Z" fill="white"/>
+                </svg>
+                  <h6>Commercial Cleaning/<br>Office Cleaning:</h6>
+                    <button class="servicesbtn"><a href="./services/commercialcleaning.html">
+                      See more &#8594;
+                    </a></button>
+                </div>
+              </div>
+            </swiper-slide>
+            <swiper-slide class="swiper1">
+              <div class="servicescard">
+                <img src="./assets/services3.png" alt="" draggable="false">
+                <div class="cardinfos">
+                  <svg xmlns="http://www.w3.org/2000/svg" width="82" height="80" viewBox="0 0 82 80" fill="none">
+                    <g clip-path="url(#clip0_1040_260)">
+                      <path d="M15.5004 36.0004C7.35071 36.0098 0.747124 42.5702 0.736816 50.6667C0.736816 58.3817 13.8624 76.0465 14.4267 76.8C14.6801 77.1379 15.0804 77.3385 15.5047 77.3385C15.929 77.3385 16.3293 77.1388 16.5827 76.8C17.1384 76.0465 30.264 58.3817 30.264 50.6667C30.2537 42.5702 23.6501 36.0098 15.5004 35.9996V36.0004ZM15.5004 73.734C11.3397 67.939 3.42189 55.8524 3.42189 50.6675C3.42189 44.0405 8.82982 38.6679 15.5004 38.6679C22.171 38.6679 27.5789 44.0405 27.5789 50.6675C27.5789 55.8507 19.6603 67.9381 15.5004 73.734Z" fill="#F7F7F7"/>
+                      <path d="M15.5004 42.6667C11.0536 42.6667 7.44775 46.249 7.44775 50.6667C7.44775 55.0844 11.0536 58.6667 15.5004 58.6667C19.9472 58.6667 23.553 55.0844 23.553 50.6667C23.5487 46.2498 19.9463 42.671 15.5004 42.6667ZM15.5004 56C12.5353 56 10.132 53.6124 10.132 50.6667C10.132 47.721 12.5353 45.3334 15.5004 45.3334C18.4655 45.3334 20.8688 47.721 20.8688 50.6667C20.8688 53.6124 18.4655 56 15.5004 56Z" fill="#F7F7F7"/>
+                      <path d="M66.4994 0C58.3497 0.01024 51.7461 6.57067 51.7358 14.6671C51.7358 22.3821 64.8614 40.0469 65.4257 40.8004C65.6791 41.1383 66.0794 41.3389 66.5037 41.3389C66.928 41.3389 67.3283 41.1392 67.5817 40.8004C68.1374 40.0469 81.263 22.3821 81.263 14.6671C81.2527 6.57067 74.6491 0.01024 66.4994 0ZM66.4994 37.7335C62.3387 31.9403 54.4209 19.8537 54.4209 14.6671C54.4209 8.04011 59.8288 2.66752 66.4994 2.66752C73.17 2.66752 78.5779 8.04011 78.5779 14.6671C78.5779 19.8502 70.6593 31.9377 66.4994 37.7335Z" fill="#F7F7F7"/>
+                      <path d="M66.4994 6.66626C62.0526 6.66626 58.4468 10.2486 58.4468 14.6663C58.4468 19.084 62.0526 22.6663 66.4994 22.6663C70.9462 22.6663 74.552 19.084 74.552 14.6663C74.5477 10.2494 70.9453 6.67053 66.4994 6.66626ZM66.4994 19.9996C63.5343 19.9996 61.131 17.612 61.131 14.6663C61.131 11.7206 63.5343 9.33293 66.4994 9.33293C69.4645 9.33293 71.8678 11.7206 71.8678 14.6663C71.8678 17.612 69.4645 19.9996 66.4994 19.9996Z" fill="#F7F7F7"/>
+                      <path d="M49.4468 43.7333C46.6432 46.0083 45.0198 49.4165 45.0267 53.0116V62.6662C45.0164 70.7626 38.4128 77.3231 30.2631 77.3333H18.1846V80H30.2631C39.8945 79.9897 47.6997 72.2346 47.71 62.6671V53.0125C47.7117 50.2178 48.9744 47.5707 51.151 45.8001C53.3275 44.0277 56.1878 43.3194 58.9476 43.8673L66.2315 45.3077L66.7572 42.6948L59.4699 41.2467C55.9224 40.5384 52.2427 41.4515 49.446 43.735L49.4468 43.7333Z" fill="#F7F7F7"/>
+                    </g>
+                    <defs>
+                      <clipPath id="clip0_1040_260">
+                        <rect width="80.5263" height="80" fill="white" transform="translate(0.736816)"/>
+                      </clipPath>
+                    </defs>
+                  </svg>
+                  <h6>Move-in/Move-out/<br>Airbnbs Cleaning:</h6>
+                    <button class="servicesbtn"><a href="./services/moveinoutairbnbcleaning.html">
+                      See more &#8594;
+                    </a></button>
+                </div>
+              </div>
+            </swiper-slide>
+            <swiper-slide class="swiper1">
+              <div class="servicescard">
+                <img src="./assets/services4.png" alt="" draggable="false">
+                <div class="cardinfos">
+                  <svg xmlns="http://www.w3.org/2000/svg" width="80" height="80" viewBox="0 0 80 80" fill="none">
+                    <path d="M79.8516 37.7141C79.8187 37.6344 79.7844 37.5609 79.7375 37.4844C79.6578 37.3516 79.5547 37.2375 79.4375 37.1312C79.3906 37.0875 79.3703 37.0281 79.3172 36.9906C79.2937 36.9734 79.2609 36.9734 79.2375 36.9578C79.2078 36.9375 79.1906 36.9078 79.1578 36.8875L71.675 32.6109C72.675 31.6484 73.3312 30.3438 73.3312 28.8703C73.3312 26.8797 72.2219 25.0875 70.4375 24.1906L58.2234 18.0844L59.6406 14.5406L60.6 14.0609C61.0969 14.3609 61.6703 14.5234 62.2672 14.5234C62.5703 14.5234 62.8797 14.4828 63.1875 14.3969L76.0344 10.7234C78.3672 10.0531 79.9969 7.89375 79.9969 5.46719C79.9969 2.45312 77.5437 0 74.5297 0H72.9969C71.7562 0 70.5437 0.426562 69.5797 1.19687L60.2328 8.67344C59.4594 9.29375 59.0797 10.1859 59.0453 11.1109L57.5828 11.8406C57.2156 12.0234 56.9297 12.3344 56.7797 12.7141L55.2297 16.5875L50.5734 14.2609C47.0172 12.4812 42.4562 13.4437 39.9203 16.4875L25.7203 33.5281L1.23906 40.0562C1.14531 40.0828 1.075 40.1391 0.989062 40.1797C0.939062 40.2031 0.879687 40.1922 0.829687 40.2234C0.8 40.2406 0.785937 40.2766 0.759375 40.2938C0.55 40.4344 0.365625 40.6031 0.239062 40.8172C0.225 40.8406 0.21875 40.8641 0.20625 40.8875C0.096875 41.0938 0.0390625 41.325 0.0265625 41.5641C0.0265625 41.6 0 41.6313 0 41.6672V65C0 65.5969 0.320312 66.15 0.840625 66.4469L24.1734 79.7797C24.4297 79.9266 24.7172 80 25 80C25.1625 80 25.3328 79.9766 25.4969 79.9234L78.8297 63.2562C79.5266 63.0391 80 62.3969 80 61.6656V38.3328C80 38.2766 79.9672 38.2297 79.9641 38.1734C79.9469 38.0141 79.9141 37.8641 79.8547 37.7141H79.8516ZM71.6687 3.8C72.0422 3.5 72.5156 3.33281 72.9984 3.33281H74.5344C75.7109 3.33281 76.6672 4.28906 76.6672 5.46562C76.6672 6.4125 76.0297 7.25625 75.1203 7.51562L63.1562 10.9359C63.1562 10.9359 63.1531 10.9266 63.1531 10.9187C63.1172 10.8422 63.05 10.7953 63.0031 10.7281L71.6656 3.79844L71.6687 3.8ZM42.4859 18.6203C43.5234 17.3797 45.0422 16.6672 46.6594 16.6672C47.4969 16.6672 48.3359 16.8672 49.0969 17.2375L53.9938 19.6844L53.6578 20.525L37.475 30.2391C36.6875 30.7125 36.4313 31.7359 36.9047 32.525C37.2188 33.0484 37.7672 33.3344 38.3344 33.3344C38.6281 33.3344 38.925 33.2578 39.1906 33.0938L55.8578 23.0938C56.1719 22.9062 56.4109 22.6234 56.5484 22.2844L56.9891 21.1844L68.9594 27.1672C69.6062 27.4937 70.0094 28.1438 70.0094 28.8797C70.0094 29.7531 69.4156 30.5094 68.5687 30.7234L67.7594 30.9266C67.7594 30.9266 67.75 30.9297 67.7469 30.9297L22.8906 42.1422L42.4906 18.6188L42.4859 18.6203ZM23.3328 75.4609L3.33125 64.0328V44.5391L23.3313 55.9656V75.4594L23.3328 75.4609ZM25.1969 53.1937L6.01719 42.2344L22.0312 37.9641L17.0547 43.9344C16.5953 44.4906 16.5406 45.2781 16.925 45.8875C17.2313 46.3812 17.7719 46.6672 18.3344 46.6672C18.4672 46.6672 18.6047 46.65 18.7406 46.6141L24.3406 45.2141L29.1438 48.0969C29.4141 48.2563 29.7109 48.3344 30 48.3344C30.5625 48.3344 31.1172 48.0484 31.4297 47.5281C31.9031 46.7375 31.65 45.7141 30.8594 45.2406L28.9094 44.0703L35.3156 42.4703L39.1422 44.7641C39.4125 44.9234 39.7094 45.0016 39.9984 45.0016C40.5625 45.0016 41.1156 44.7156 41.4281 44.1953C41.9016 43.4047 41.6484 42.3812 40.8578 41.9078L39.8875 41.3281L46.2969 39.725L49.1375 41.4313C49.4109 41.5906 49.7078 41.6687 49.9969 41.6687C50.5609 41.6687 51.1141 41.3828 51.4266 40.8625C51.8969 40.075 51.6469 39.0594 50.8672 38.5828L57.2766 36.9797L59.1391 38.0969C59.4094 38.2594 59.7062 38.3375 59.9953 38.3375C60.5594 38.3375 61.1125 38.05 61.425 37.5312C61.7281 37.025 61.7047 36.4313 61.4578 35.9375L67.9344 34.3172L74.1812 37.8875L25.1906 53.1969L25.1969 53.1937ZM76.6672 60.4406L26.6672 76.0672V56.2234L76.6672 40.6V60.4406Z" fill="#F7F7F7"/>
+                  </svg>
+                  <h6>Post <br>Construction</h6>
+                    <button class="servicesbtn"><a href="./services/postconstructioncleaning.html">
+                      See more &#8594;
+                    </a></button>
+                </div>
               </div>
             </swiper-slide>
           </swiper-container>

diff --git a/css/style.css b/css/style.css
@@ -614,30 +614,86 @@ max-width: 50px;
     text-decoration: dotted;
 }
 
-
-swiper-container.mySwiper1 {
+.mySwiper1 {
+    display: flex;
+    justify-content: center;
+    align-items: center;
     width: 100%;
-    height: 100%;
-    max-width: 900px;
-    max-height: 350px;
+    max-width: 1400px;
+    padding: 0 50px;
+    height: 520px;
+    cursor: grab;
+    margin: auto !important;
+    overflow: hidden;
+    padding-bottom: 40px;
+}
+.swiper1 {
+  display: flex;
+  font-size: 18px;
+  justify-content: center;
+  width: 100%;
+  max-width: 299px;
+  height: 100%;
+  border-radius: 30px;
+  margin-bottom: 50px;
+  overflow: hidden;
+}
+.swiper1 img {
+  width: 100% !important;
+  max-width: 290px !important;
+  margin: auto;
+  justify-content: start;
+  object-fit: cover !important;
+  object-position: center;
+}
+.cardinfos svg{
+    position: absolute;
+    top: 53px;
+    left: 50%;
+    transform: translate(-50%);
+}
+.cardinfos h6{
+    position: absolute;
+    font-size: 20px;
+    font-weight: 700;
+    line-height: 100%;
+    color: #fff;
+    width: 240px;
+    bottom: 235px;
+    left: 50%;
+    transform: translate(-50%);
+    text-align: center;
+}
+.servicesbtn{
+    position: absolute;
+    bottom: 84px;
+    left: 50%;
+    transform: translate(-50%);
+    display: flex;
+    justify-content: center;
+    border-radius: 100px;
+    display: inline-flex;
+    padding: 12px 24px;
+    justify-content: center;
+    align-items: center;
+    gap: 12px;
+    font-size: 16px;
+    font-weight: 600;
+    background-color: #0C1B32;
+    color: #fff;
+    border: 1px solid #fff;
     cursor: pointer;
-    margin: 0 auto !important;
-  }
-  swiper-slide.swiper1 {
-    max-width: 216px;
-    border-radius: 30px;
-    height: 100%;
-    margin-left: 0px;
-  }
-  .swiper1 img {
-    width: 200px !important;
-    max-width: 100% !important;
-    margin: auto;
-    border-radius: 32px;
-    justify-content: start;
-    object-fit: cover !important;
-    object-position: center;
-  }
+    width: 150px;
+}
+.servicesbtn a{
+    text-decoration: none;
+    color: inherit;
+}
+.servicesbtn:hover{
+    background-color: #E0B451;
+    color: #000;
+    border: 1px solid #000;
+}
 @media screen and (max-width:980px) {
     .servicescontainer{
         padding: 0 0 50px 20px;
@@ -875,18 +931,18 @@ text-align: center;
 swiper-container.mySwiper2 {
   width: 100%;
   height: 100%;
-  max-height: 725px;
+  max-height: 625px;
   cursor: grab;
   margin: 0 !important;
 }
 swiper-slide.swiper2 {
-  max-width: 680px;
+  max-width: 580px;
   border-radius: 30px;
   margin-left: 0px;
 }
 .swiper2 img {
   width: 100% !important;
-  max-width: 670px !important;
+  max-width: 570px !important;
   margin: auto;
   border-radius: 32px;
   object-fit: cover !important;
@@ -903,7 +959,7 @@ swiper-slide.swiper2 {
         width: 100%;
         max-width: 3290px;
         margin: 0 auto;
-        padding: 90px 0 90px 0;
+        padding: 90px 0 0 0;
     }
     swiper-container.mySwiper2 {
       max-height: 630px;
@@ -1174,8 +1230,7 @@ swiper-slide.swiper2 {
     position: relative;
     width: 100%;
     max-width: 2990px;
-    height: 100%;
-    max-height: 1100px;
+    height: 1100px;
     margin: auto;
     background-color: #000; /* !! */
     padding: 0;
@@ -1310,8 +1365,7 @@ form {
             width: 100%;
             object-fit: cover;
             max-width: 2999px;
-            height: 100%;
-            max-height: 1300;
+            height: 1300px;
             flex-shrink: 0;
             z-index: 0;
         }
@@ -1321,7 +1375,7 @@ form {
         display: none;
     }
     .formgrid{
-        height: 1000;
+        height: 1000px;
         margin: auto;
         justify-content: center;
     }
@@ -1772,7 +1826,7 @@ footer{
         background: url(../assets/popup3.png);
         background-position: 40%;
         background-size: cover;
-        padding: 170px 30px 120px 30px;
+        padding: 30px 30px 120px 30px;
     }
     .popup .content4{
         background: url(../assets/popup4.png);
